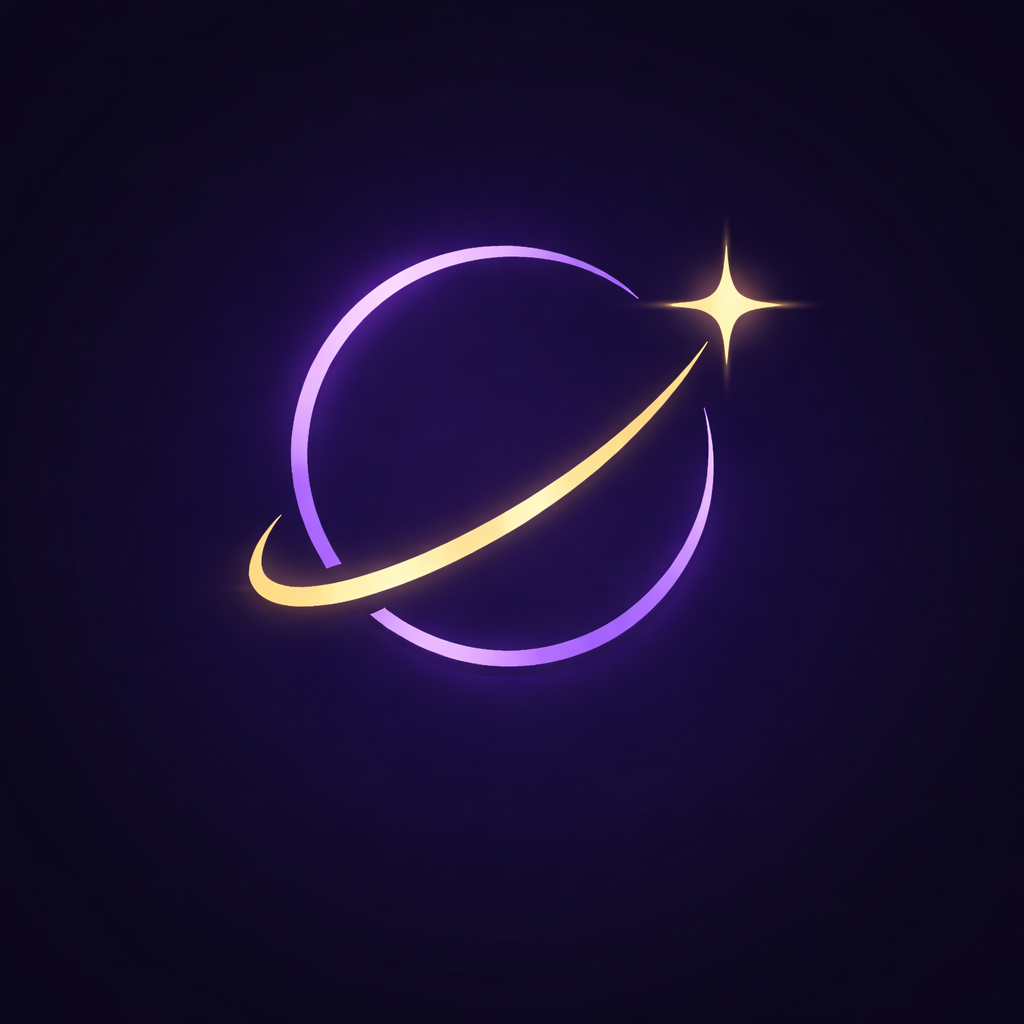
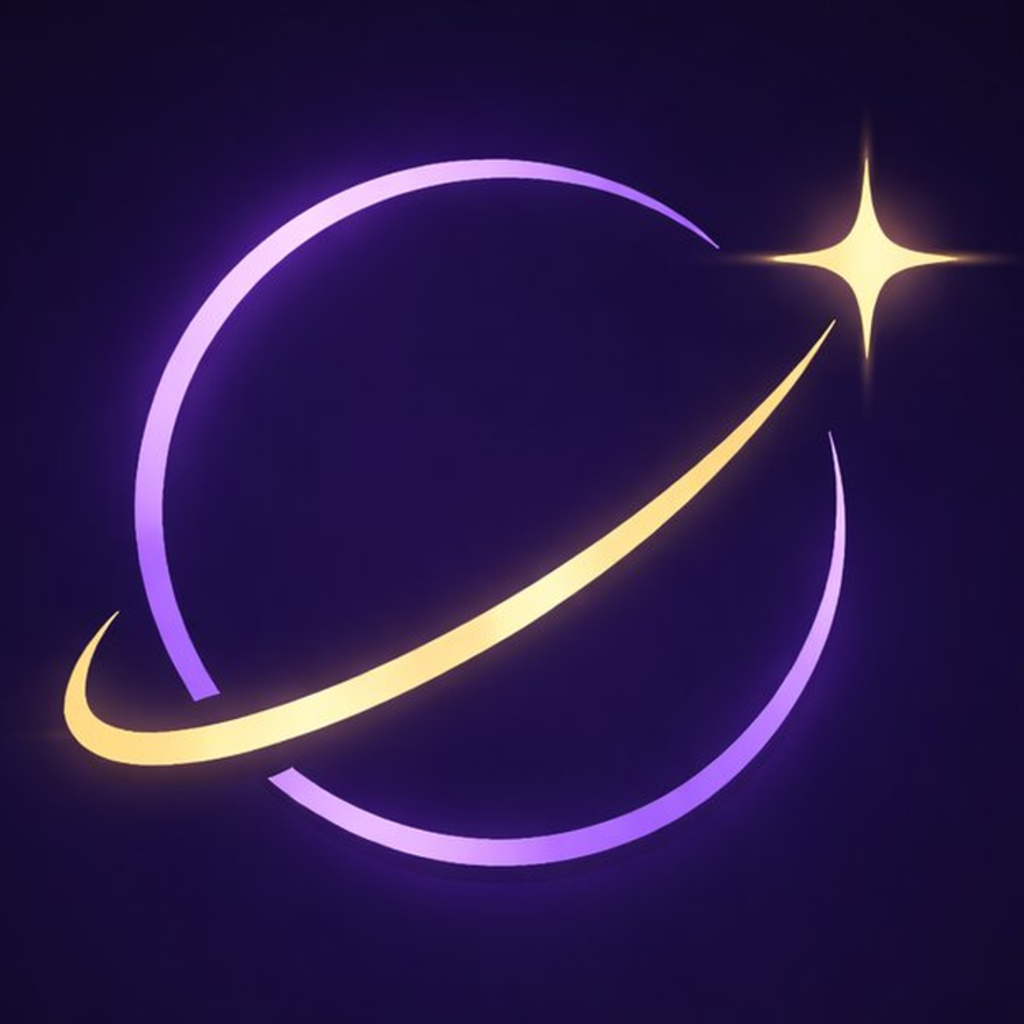
fix: return User from loginWithGoogle/loginWithApple in AuthContext + update login flow

diff --git a/app/app/login.tsx b/app/app/login.tsx
@@ -14,7 +14,6 @@ import { useRouter } from 'expo-router';
 import { Feather, MaterialCommunityIcons } from '@expo/vector-icons';
 import { useTranslation } from 'react-i18next';
 import { useAuth } from '@/contexts/AuthContext';
-import { loginWithGoogle, loginWithApple } from '@/services/oauth';
 import { login, register } from '@/services/auth';
 import * as AppleAuthentication from 'expo-apple-authentication';
 import { InlineLoading } from '@/components/ui';
@@ -43,7 +42,7 @@ try {
 export default function Login() {
     const router = useRouter();
     const { t } = useTranslation();
-    const { refreshUser } = useAuth();
+    const { loginWithGoogle: authLoginWithGoogle, loginWithApple: authLoginWithApple } = useAuth();
     const [error, setError] = useState<string | undefined>();
     const [googleLoading, setGoogleLoading] = useState(false);
     const [appleLoading, setAppleLoading] = useState(false);
@@ -73,14 +72,12 @@ export default function Login() {
         setError(undefined);
         try {
             await GoogleSignin.hasPlayServices();
-            await GoogleSignin.signOut();
             const response = await GoogleSignin.signIn();
             const idToken = response?.data?.idToken;
             if (!idToken) {
                 throw new Error(t('auth.errors.loginFailed'));
             }
-            const loggedInUser = await loginWithGoogle(idToken);
-            await refreshUser();
+            const loggedInUser = await authLoginWithGoogle(idToken);
             router.replace(loggedInUser.hasBirthProfile ? '/(tabs)' : '/onboarding');
         } catch (err) {
             if (isErrorWithCode(err)) {
@@ -142,11 +139,10 @@ export default function Login() {
                 ],
             });
             if (!credential.identityToken) throw new Error(t('auth.errors.loginFailed'));
-            const loggedInUser = await loginWithApple(credential.identityToken, {
+            const loggedInUser = await authLoginWithApple(credential.identityToken, {
                 email: credential.email ?? undefined,
                 fullName: credential.fullName ?? undefined,
             });
-            await refreshUser();
             router.replace(loggedInUser.hasBirthProfile ? '/(tabs)' : '/onboarding');
         } catch (err: any) {
             if (err?.code !== 'ERR_REQUEST_CANCELED') {

diff --git a/app/contexts/AuthContext.tsx b/app/contexts/AuthContext.tsx
@@ -29,8 +29,8 @@ interface AuthContextType {
     logout: () => Promise<void>;
     deleteAccount: () => Promise<void>;
     refreshUser: () => Promise<void>;
-    loginWithGoogle: (idToken: string) => Promise<void>;
-    loginWithApple: (idToken: string, userInfo?: { email?: string; fullName?: { givenName?: string; familyName?: string } }) => Promise<void>;
+    loginWithGoogle: (idToken: string) => Promise<User>;
+    loginWithApple: (idToken: string, userInfo?: { email?: string; fullName?: { givenName?: string; familyName?: string } }) => Promise<User>;
 }
 
 const AuthContext = createContext<AuthContextType | undefined>(undefined);
@@ -166,11 +166,12 @@ export function AuthProvider({ children }: AuthProviderProps) {
         return () => subscription.remove();
     }, [refreshUser]);
 
-    const loginWithGoogle = useCallback(async (idToken: string) => {
+    const loginWithGoogle = useCallback(async (idToken: string): Promise<User> => {
         setIsLoading(true);
         try {
             const loggedInUser = await oauthLoginWithGoogle(idToken);
             setUser(loggedInUser);
+            return loggedInUser;
         } finally {
             setIsLoading(false);
         }
@@ -179,11 +180,12 @@ export function AuthProvider({ children }: AuthProviderProps) {
     const loginWithApple = useCallback(async (
         idToken: string,
         userInfo?: { email?: string; fullName?: { givenName?: string; familyName?: string } }
-    ) => {
+    ): Promise<User> => {
         setIsLoading(true);
         try {
             const loggedInUser = await oauthLoginWithApple(idToken, userInfo);
             setUser(loggedInUser);
+            return loggedInUser;
         } finally {
             setIsLoading(false);
         }